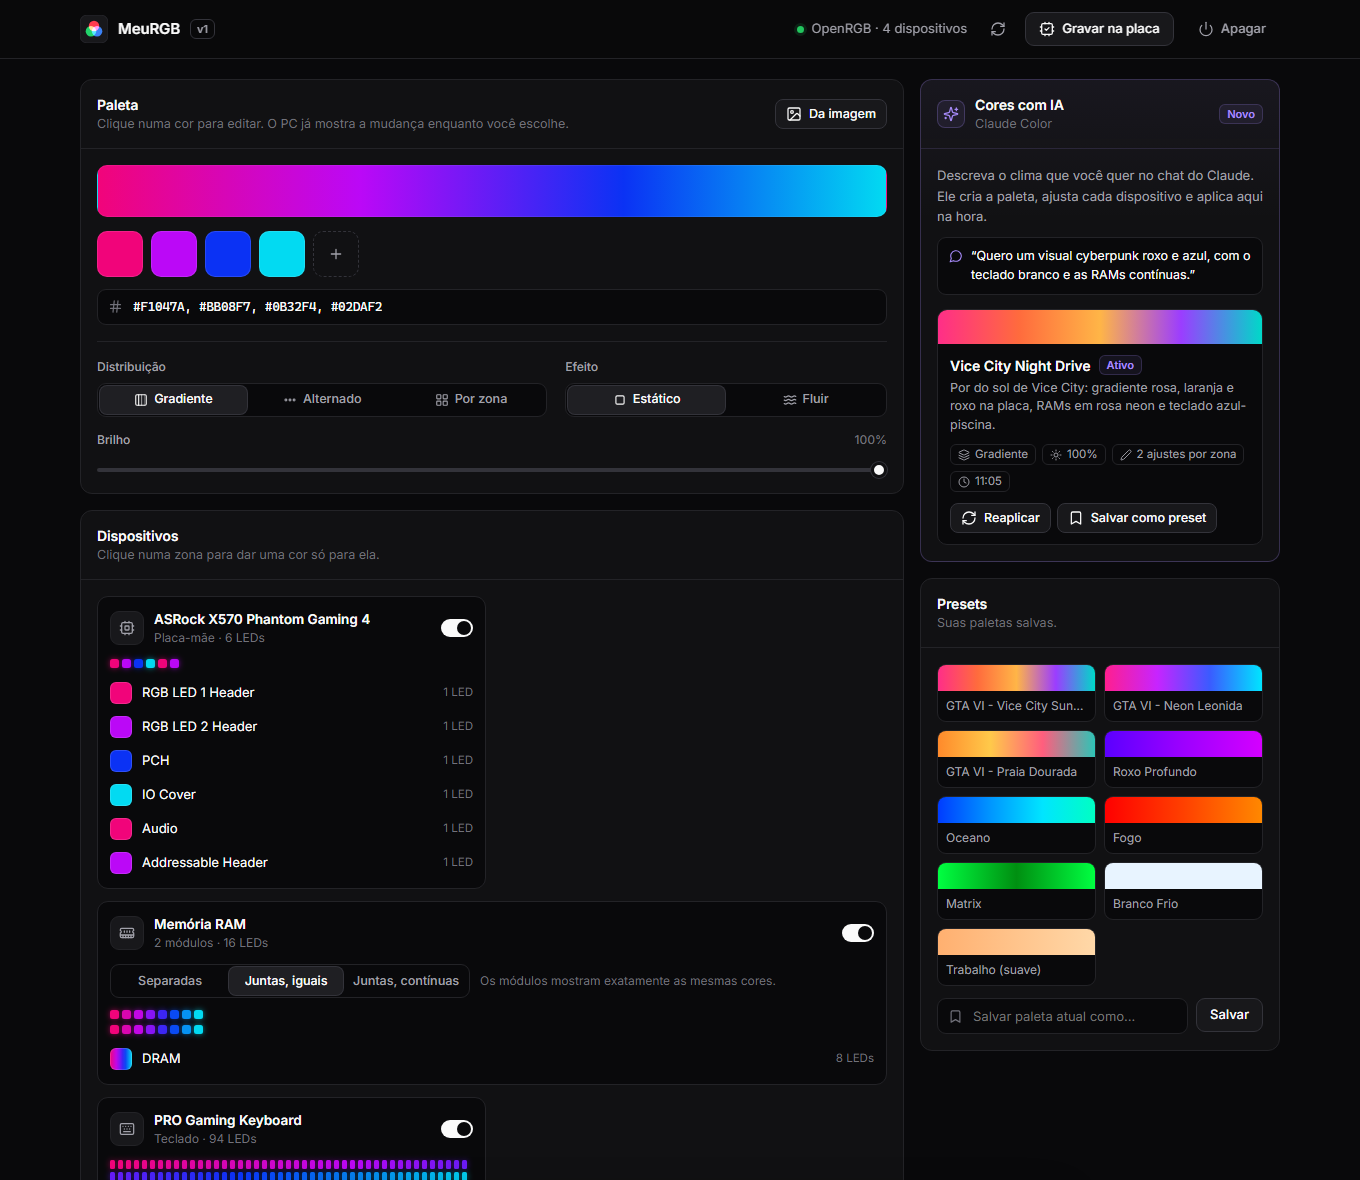
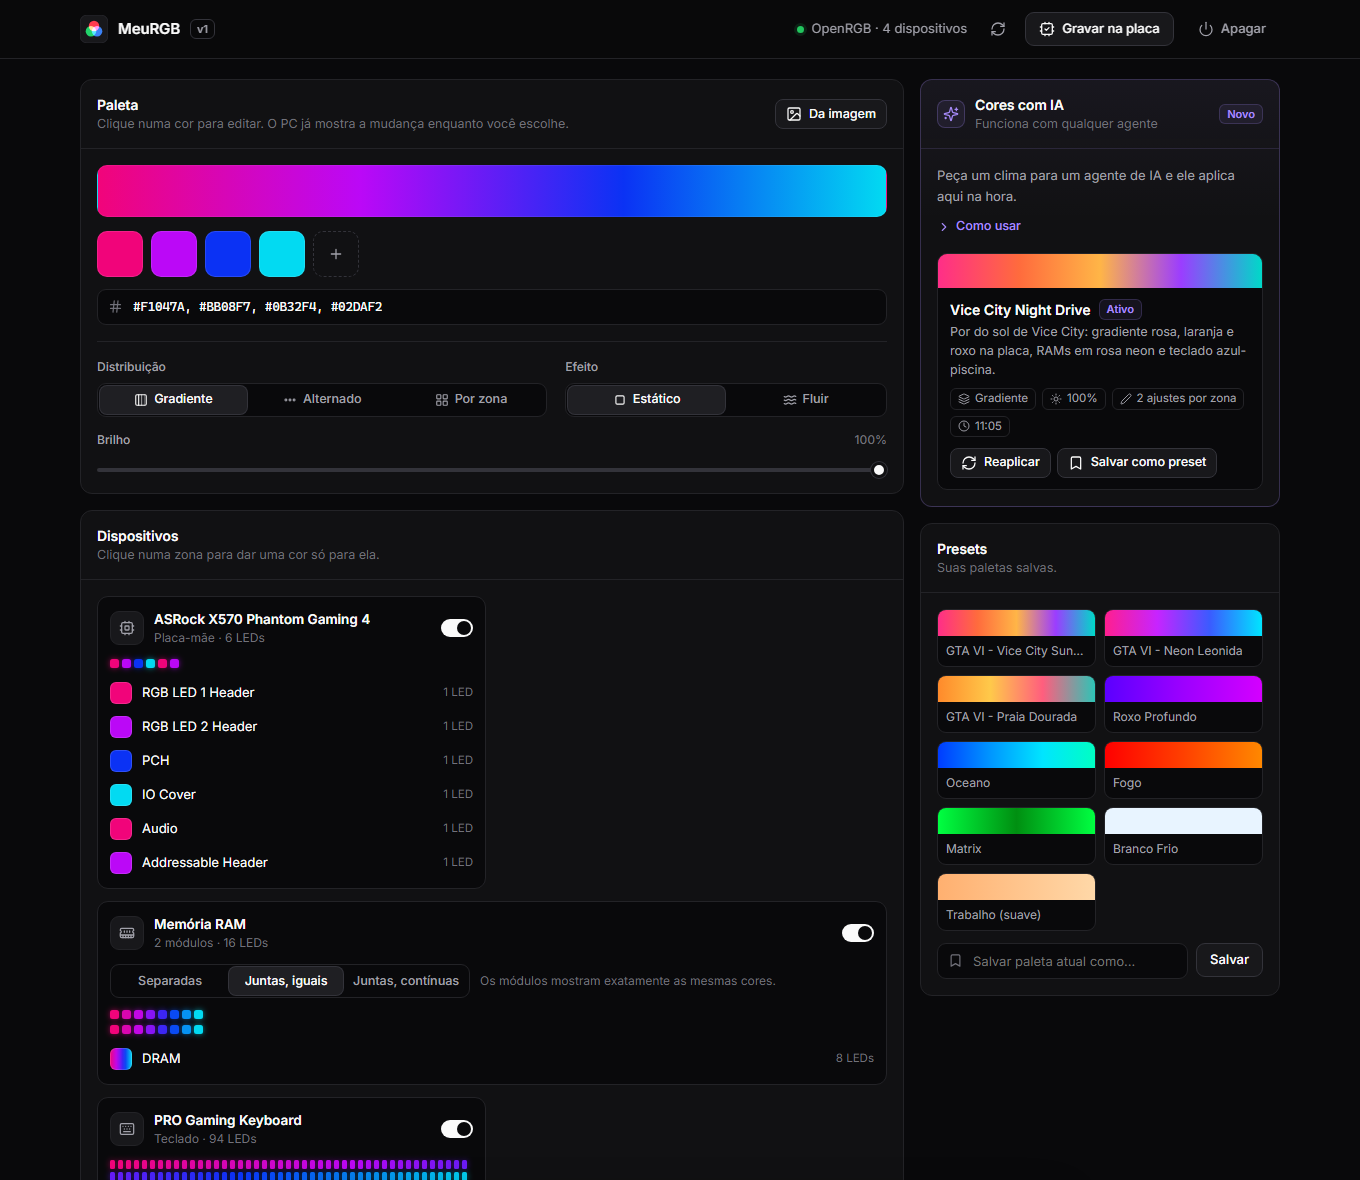
Card de IA: exemplo vira "Como usar" recolhível
O exemplo de pedido parecia um campo de digitar. Agora fica num bloco
"Como usar" que abre ao clicar, com os passos e o exemplo como citação.

diff --git a/app/index.html b/app/index.html
@@ -129,8 +129,16 @@
   .aimark{width:28px;height:28px;border-radius:8px;display:grid;place-items:center;background:var(--ai-bg);color:var(--ai);border:1px solid #a78bfa40}
   .badge{font-size:11px;font-weight:600;color:var(--ai);background:var(--ai-bg);border:1px solid #a78bfa33;border-radius:6px;padding:1px 7px;white-space:nowrap}
   .howto{font-size:13px;color:var(--muted);line-height:1.6}
-  .prompt{margin-top:10px;font-size:12.5px;color:var(--text);background:var(--bg);border:1px solid var(--border);border-radius:9px;padding:9px 11px;display:flex;gap:8px}
-  .prompt .i{color:var(--ai);margin-top:2px;width:14px;height:14px}
+  .how{margin-top:8px}
+  .how summary{display:inline-flex;align-items:center;gap:5px;cursor:pointer;list-style:none;font-size:12.5px;font-weight:500;color:var(--ai);padding:3px 0;user-select:none}
+  .how summary::-webkit-details-marker{display:none}
+  .how summary:hover{color:#c4b5fd}
+  .how summary .i{width:14px;height:14px;transition:transform .15s}
+  .how[open] summary .i{transform:rotate(90deg)}
+  .how ol{margin:8px 0 0;padding-left:18px;font-size:12.5px;color:var(--muted);line-height:1.6}
+  .how li{margin-bottom:3px}
+  .how .ex{font-size:11.5px;color:var(--dim);margin:10px 0 4px;text-transform:uppercase;letter-spacing:.06em;font-weight:600}
+  .how blockquote{margin:0;padding:2px 0 2px 11px;border-left:2px solid #a78bfa66;font-size:12.5px;font-style:italic;color:var(--text);line-height:1.55}
   .active{margin-top:14px;border:1px solid var(--border);border-radius:10px;background:var(--bg);overflow:hidden}
   .active .bar{height:34px}
   .active .ab{padding:11px 12px}
@@ -315,6 +323,7 @@ const I = {
   waves:'<path d="M2 6c.6.5 1.2 1 2.5 1C7 7 7 5 9.5 5c2.6 0 2.4 2 5 2 2.5 0 2.5-2 5-2 1.3 0 1.9.5 2.5 1M2 12c.6.5 1.2 1 2.5 1 2.5 0 2.5-2 5-2 2.6 0 2.4 2 5 2 2.5 0 2.5-2 5-2 1.3 0 1.9.5 2.5 1M2 18c.6.5 1.2 1 2.5 1 2.5 0 2.5-2 5-2 2.6 0 2.4 2 5 2 2.5 0 2.5-2 5-2 1.3 0 1.9.5 2.5 1"/>',
   sparkles:'<path d="M9.937 15.5A2 2 0 0 0 8.5 14.063l-6.135-1.582a.5.5 0 0 1 0-.962L8.5 9.936A2 2 0 0 0 9.937 8.5l1.582-6.135a.5.5 0 0 1 .963 0L14.063 8.5A2 2 0 0 0 15.5 9.937l6.135 1.581a.5.5 0 0 1 0 .964L15.5 14.063a2 2 0 0 0-1.437 1.437l-1.582 6.135a.5.5 0 0 1-.963 0z"/><path d="M20 3v4M22 5h-4M4 17v2M5 18H3"/>',
   message:'<path d="M7.9 20A9 9 0 1 0 4 16.1L2 22Z"/>',
+  chevron:'<path d="m9 18 6-6-6-6"/>',
   bookmark:'<path d="m19 21-7-4-7 4V5a2 2 0 0 1 2-2h10a2 2 0 0 1 2 2v16z"/>',
   check:'<path d="M20 6 9 17l-5-5"/>',
   x:'<path d="M18 6 6 18M6 6l12 12"/>',
@@ -546,8 +555,17 @@ function renderPresets(){
 const MODE={gradiente:"Gradiente",alternado:"Alternado",zona:"Por zona"};
 function renderAI(){
   const box=$("#ai"), a=S.claude.active, hist=S.claude.history||[];
-  let h=`<div class="howto">Descreva o clima que você quer para um agente de IA que roda no seu PC (Claude Code, Codex, Gemini CLI, Cursor...). Ele cria a paleta, ajusta cada dispositivo e aplica aqui na hora. As instruções para o agente estão no <b>AGENTS.md</b>.</div>
-    <div class="prompt">${icon("message")}<span>“Quero um visual cyberpunk roxo e azul, com o teclado branco e as RAMs contínuas.”</span></div>`;
+  let h=`<div class="howto">Peça um clima para um agente de IA e ele aplica aqui na hora.</div>
+    <details class="how" ${S.howOpen?"open":""}><summary>${icon("chevron")}Como usar</summary>
+      <ol>
+        <li>Abra um agente de IA que rode comandos no seu PC (Claude Code, Codex, Gemini CLI, Cursor...) na pasta do MeuRGB.</li>
+        <li>Descreva o visual que você quer, do seu jeito.</li>
+        <li>Ele cria a paleta, ajusta cada dispositivo e aplica. O perfil aparece aqui embaixo.</li>
+      </ol>
+      <div class="ex">Exemplo de pedido</div>
+      <blockquote>Quero um visual cyberpunk roxo e azul, com o teclado branco e as RAMs contínuas.</blockquote>
+      <div class="dim" style="font-size:12px;margin-top:8px">As instruções para o agente ficam no arquivo AGENTS.md.</div>
+    </details>`;
   if(a){
     const nz=(a.zones||[]).length;
     h+=`<div class="active"><div class="bar" style="background:${grad(a.colors||[])}"></div><div class="ab">
@@ -561,6 +579,7 @@ function renderAI(){
     if(hist.length>1) h+=`<div class="hist"><div class="ht">Anteriores</div>${hist.slice(1,7).map((x,k)=>`<button class="hrow" data-h="${k+1}" title="Aplicar de novo"><span class="mini" style="background:${grad(x.colors||[])}"></span><span class="nm">${esc(x.name||"Perfil")}</span><span class="tm">${esc((x.created||"").slice(5,10).split("-").reverse().join("/"))}</span></button>`).join("")}</div>`;
   }
   box.innerHTML=h;
+  box.querySelector(".how").ontoggle=e=>{ S.howOpen=e.target.open; };
   if(a){
     $("#aiRe").onclick=e=>run(e.currentTarget,()=>useAI(a));
     $("#aiSave").onclick=e=>run(e.currentTarget,async()=>{ S.palettes=(await api("/api/preset",{name:"IA · "+(a.name||"perfil"),colors:a.colors})).palettes; renderPresets(); toast("Salvo nos presets"); });
